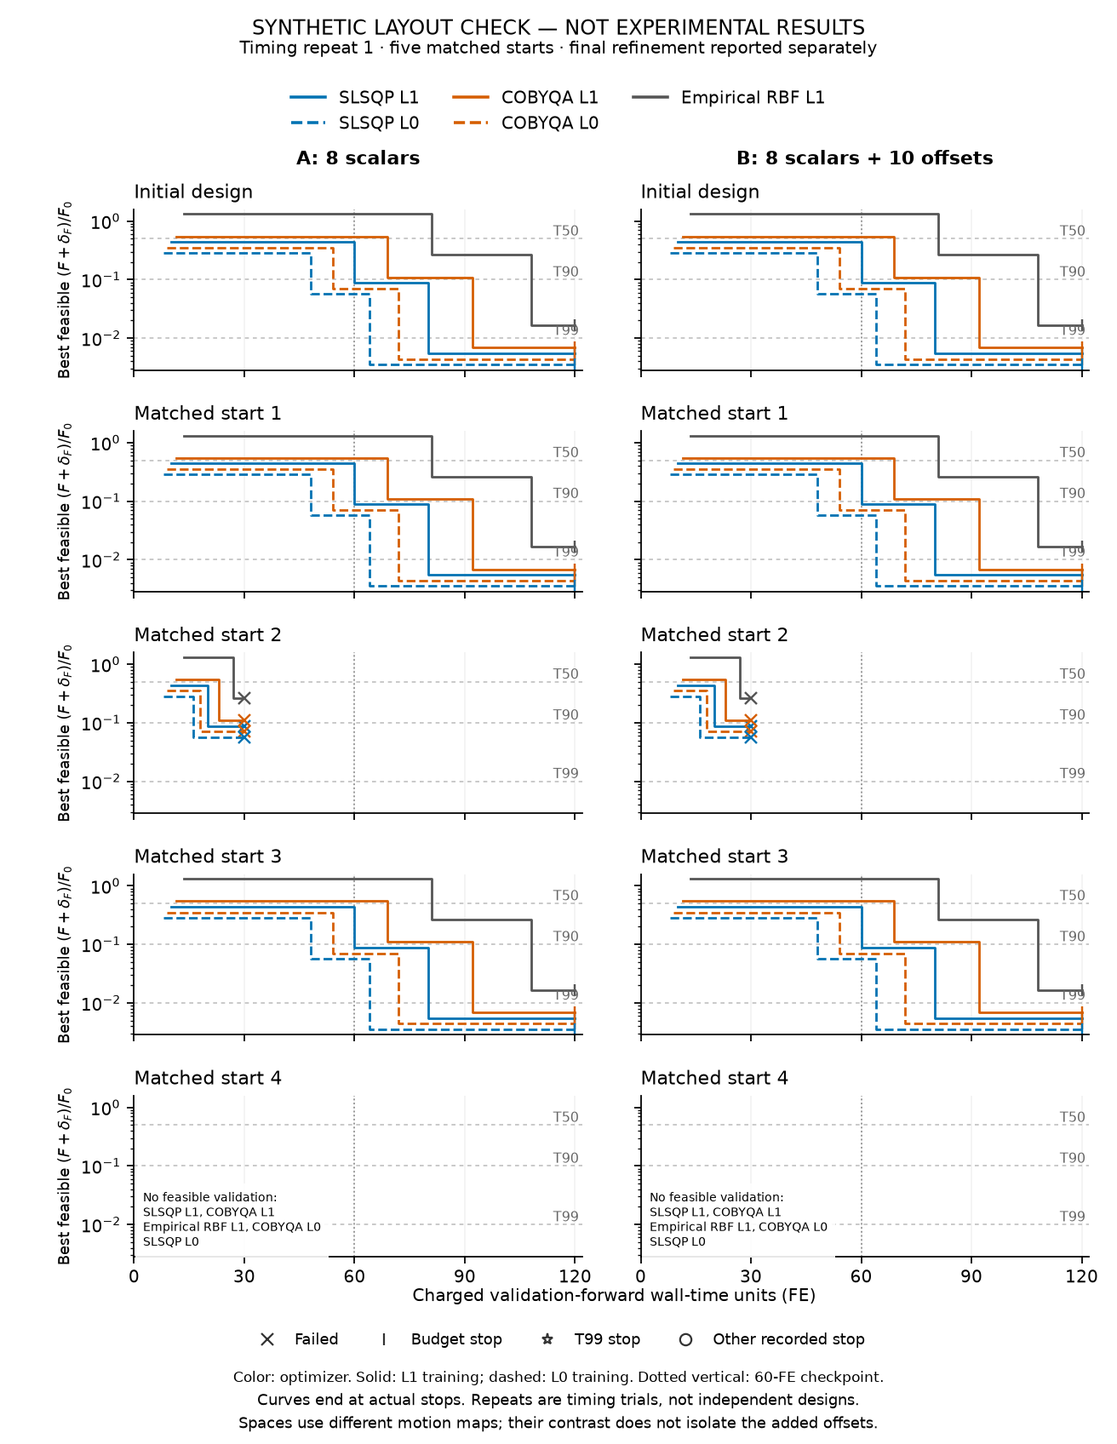
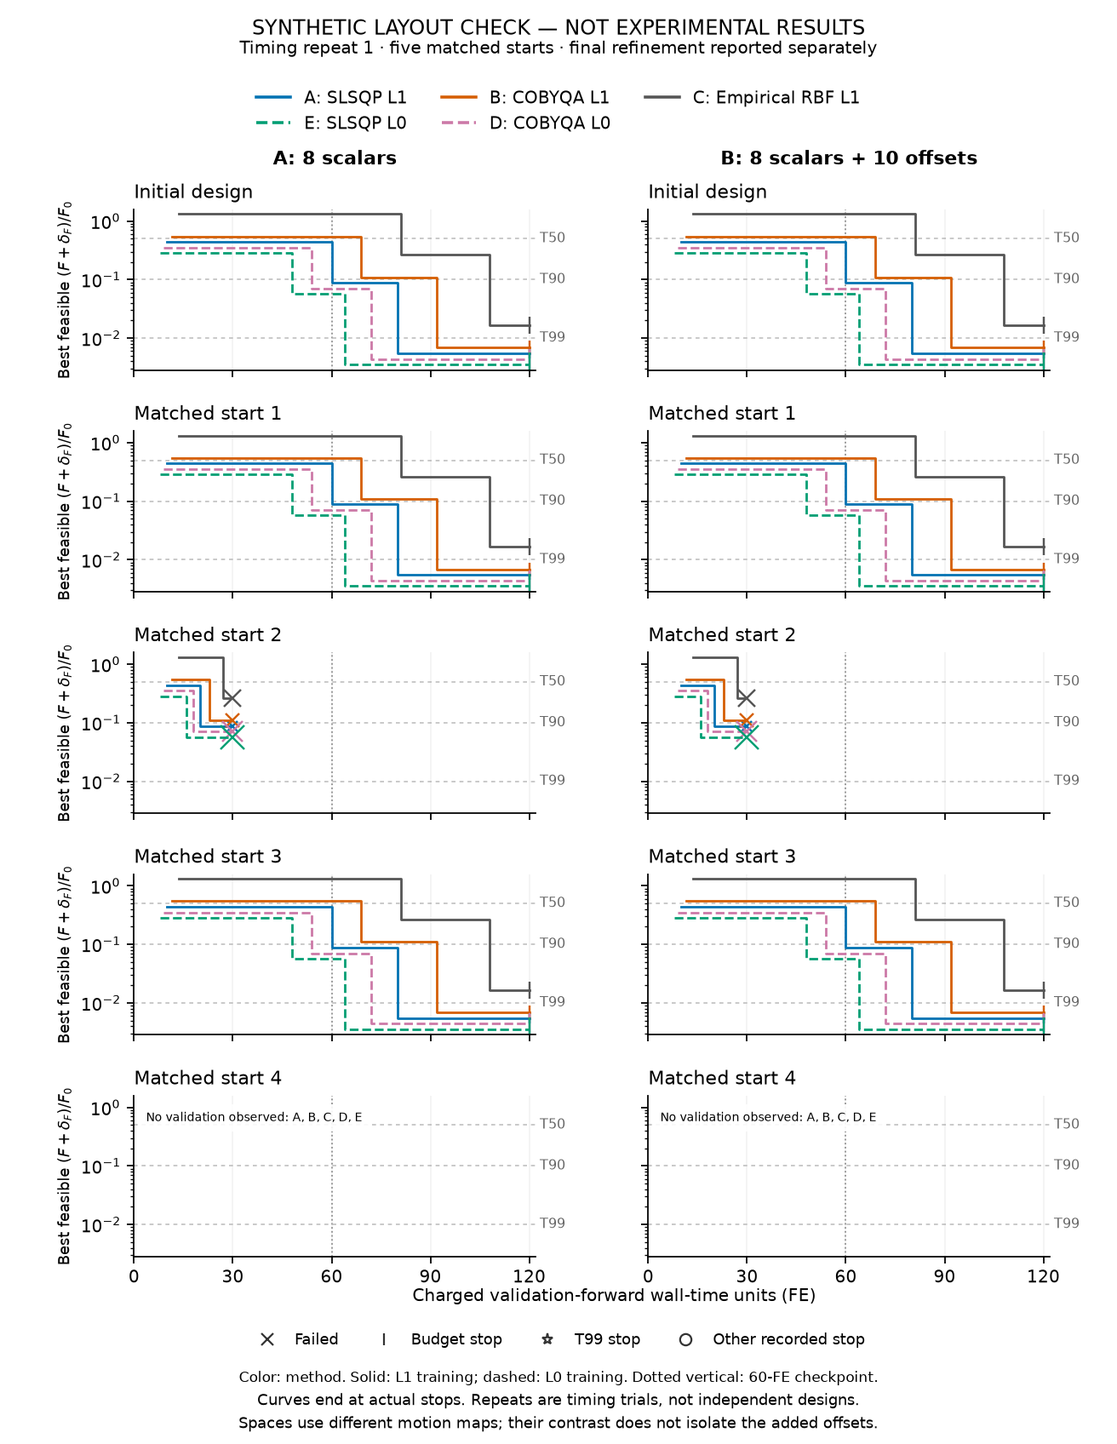
Fix main-study presentation review and guard rendered series

diff --git a/papers/motor-gradient-optimization/refs/main-study-figures/render.py b/papers/motor-gradient-optimization/refs/main-study-figures/render.py
@@ -12,7 +12,7 @@ from matplotlib.lines import Line2D
 
 from prepare import METHODS, TARGETS, load
 
-COLORS = {'A': '#0072B2', 'E': '#0072B2', 'B': '#D55E00', 'D': '#D55E00', 'C': '#555555'}
+COLORS = {'A': '#0072B2', 'E': '#009E73', 'B': '#D55E00', 'D': '#CC79A7', 'C': '#555555'}
 STYLES = {'A': '-', 'B': '-', 'C': '-', 'D': '--', 'E': '--'}
 
 
@@ -26,7 +26,22 @@ def endpoint(stop):
     return 'o'
 
 
+def panel_rows(data, start, space, repeat):
+    rows = [r for r in data['runs'] if (r['start_index'], r['space'], r['repeat']) == (start, space, repeat)]
+    if len(rows) != 5 or {r['method'] for r in rows} != set(METHODS):
+        raise ValueError('panel must contain all five methods from exactly one repeat')
+    return sorted(rows, key=lambda r: r['method'])
+
+
+def missing_label(row):
+    return {'unavailable': 'Validation unavailable',
+            'unavailable_and_rejected': 'Unavailable / rejected',
+            'rejected': 'No feasible validation',
+            'not_observed': 'No validation observed'}[row['validation_state']]
+
+
 def render(data, out, *, synthetic=False):
+    synthetic = synthetic or data.get('synthetic') is True
     out.mkdir(parents=True, exist_ok=False)
     plt.rcParams.update({'font.size': 9, 'axes.titlesize': 10,
                          'axes.spines.top': False, 'axes.spines.right': False,
@@ -36,13 +51,13 @@ def render(data, out, *, synthetic=False):
     upper = max(1.2, max(ratios) * 1.2) if ratios else 1.2
     for repeat in (1, 2):
         fig, axes = plt.subplots(5, 2, figsize=(8.2, 10.6), sharex=True, sharey=True)
-        fig.subplots_adjust(left=.12, right=.975, bottom=.13, top=.855, hspace=.38, wspace=.13)
+        fig.subplots_adjust(left=.12, right=.94, bottom=.13, top=.855, hspace=.38, wspace=.28)
         title = 'SYNTHETIC LAYOUT CHECK — NOT EXPERIMENTAL RESULTS' if synthetic else 'Common-validated ripple by starting design'
         fig.suptitle(title, y=.987, fontsize=11 if synthetic else 13)
         fig.text(.5, .963, f'Timing repeat {repeat} · five matched starts · final refinement reported separately',
                  ha='center', fontsize=9)
         handles = [Line2D([], [], color=COLORS[m], linestyle=STYLES[m],
-                          label=METHODS[m][1], lw=1.6) for m in ('A', 'E', 'B', 'D', 'C')]
+                          label=m + ': ' + METHODS[m][1], lw=1.6) for m in ('A', 'E', 'B', 'D', 'C')]
         fig.legend(handles=handles, loc='upper center', bbox_to_anchor=(.5, .948),
                    ncol=3, frameon=False, fontsize=9)
         for start in range(5):
@@ -53,16 +68,18 @@ def render(data, out, *, synthetic=False):
                 ax.axvline(60, color='#888888', lw=.8, linestyle=':', zorder=0)
                 for name, fraction in TARGETS.items():
                     ax.axhline(fraction, color='#BBBBBB', lw=.7, linestyle=(0, (3, 3)), zorder=0)
-                    ax.text(121, fraction, name, ha='right', va='bottom', fontsize=7, color='#666666')
-                rows = [r for r in data['runs'] if (r['start_index'], r['space'], r['repeat']) == (start, space, repeat)]
+                    ax.text(1.01, fraction, name, transform=ax.get_yaxis_transform(),
+                            ha='left', va='center', fontsize=7, color='#666666')
+                rows = panel_rows(data, start, space, repeat)
                 missing = []
                 for r in rows:
                     if not r['points']:
-                        missing.append(r['method']); continue
+                        missing.append(r); continue
                     x, y = zip(*r['points']); m = r['method']
-                    ax.step(x, y, where='post', color=COLORS[m], linestyle=STYLES[m], lw=1.25)
+                    ax.step(x, y, where='post', color=COLORS[m], linestyle=STYLES[m], lw=1.25, label=r['run_id'])
                     ax.plot(x[-1], y[-1], marker=endpoint(r['stop']), linestyle='none',
-                            color=COLORS[m], ms=6, markerfacecolor='none', markeredgewidth=1.1)
+                            color=COLORS[m], ms=5 + 2 * list(METHODS).index(m),
+                            markerfacecolor='none', markeredgewidth=1.1)
                 ax.set_title('Initial design' if start == 0 else f'Matched start {start}', loc='left')
                 if start == 0:
                     ax.text(.5, 1.28, 'A: 8 scalars' if space == 'a' else 'B: 8 scalars + 10 offsets',
@@ -71,16 +88,17 @@ def render(data, out, *, synthetic=False):
                     ax.set_ylabel(r'Best feasible $(F+\delta_F)/F_0$', fontsize=8)
                 if missing:
                     # Avoid five method names overflowing a narrow panel.
-                    text = 'No feasible validation:\n' + '\n'.join(
-                        ', '.join(METHODS[m][1] for m in missing[i:i+2]) for i in range(0, len(missing), 2))
-                    ax.text(.02, .04, text, transform=ax.transAxes, fontsize=6.5, va='bottom',
+                    labels = {}
+                    for r in missing: labels.setdefault(missing_label(r), []).append(r['method'])
+                    text = '\n'.join(label + ': ' + ', '.join(methods) for label, methods in labels.items())
+                    ax.text(.03, .9, text, transform=ax.transAxes, fontsize=6.5, va='top',
                             bbox={'facecolor': 'white', 'edgecolor': 'none', 'alpha': .9})
         stops = [('x', 'Failed'), ('|', 'Budget stop'), ('*', 'T99 stop'), ('o', 'Other recorded stop')]
         fig.legend(handles=[Line2D([], [], marker=m, color='#333333', linestyle='none',
                                    markerfacecolor='none', label=l) for m, l in stops],
                    loc='lower center', bbox_to_anchor=(.5, .057), ncol=4, frameon=False, fontsize=8)
         fig.text(.55, .099, 'Charged validation-forward wall-time units (FE)', ha='center', fontsize=9)
-        fig.text(.5, .043, 'Color: optimizer. Solid: L1 training; dashed: L0 training. Dotted vertical: 60-FE checkpoint.',
+        fig.text(.5, .043, 'Color: method. Solid: L1 training; dashed: L0 training. Dotted vertical: 60-FE checkpoint.',
                  ha='center', fontsize=7.5)
         fig.text(.5, .027, 'Curves end at actual stops. Repeats are timing trials, not independent designs.', ha='center', fontsize=8)
         fig.text(.5, .011, 'Spaces use different motion maps; their contrast does not isolate the added offsets.', ha='center', fontsize=8)

diff --git a/papers/motor-gradient-optimization/refs/main-study-figures/test_prepare.py b/papers/motor-gradient-optimization/refs/main-study-figures/test_prepare.py
@@ -25,7 +25,7 @@ def fixture():
                         'space': space, 'start_index': start, 'start': 'theta0' if start == 0 else f'lhs{start}',
                         'repeat': repeat}, 'selected_completion': True, 'terminal_bound': True,
                         'host_contaminated': False, 'trace_sha256': 'a' * 64, 'status': stop,
-                        'ledger': {'total_fe': end, 'total_seconds': end * 2., 'solve_fe': end}, 'validations': []}
+                        'ledger': {'total_fe': end, 'total_seconds': end * 2., 'solve_fe': end}, 'validations': [], 'validation_unavailable_events': []}
                     attempts.append(attempt)
                     if start == 4:
                         continue
@@ -35,17 +35,17 @@ def fixture():
                             fe *= .9
                         r = {'run_id': rid, 'source_sha256': 'a' * 64, 'method': method, 'space': space,
                              'start_index': start, 'repeat': repeat, 'ordinal': ordinal,
-                             'elapsed_seconds': fe * 2., 'budget_seconds': 240., 'f_val': f, 'mean_full': 1.1,
+                             'elapsed_seconds': fe * 2., 'budget_seconds': 240., 'f_val': f * 2., 'mean_full': 1.1,
                              'eligible_run': True, 'host_contaminated': False, 'completed': True,
                              'geometry_admissible': True, 'discrete_pass': True, 'mesh_pass': True}
-                        upper = f + max(.1 * f, 2.5e-7)
+                        upper = 2 * f + max(.2 * f, 2.5e-7)
                         records.append({'record': r, 'eligible': True, 'rejection_reasons': [], 'f_upper': upper,
-                                        'attains': {n: upper <= fraction for n, fraction in TARGETS.items()}})
+                                        'attains': {n: upper <= 2 * fraction for n, fraction in TARGETS.items()}})
                         attempt['validations'].append({'record_id': f'{rid}:{ordinal}'})
     return {'schema': 1, 'can_select': True, 'capture_manifest_sha256': 'b' * 64,
             'source_commit': 'c' * 40, 'attempts': attempts,
-            'selection': {'f0': 1., 'mean0': 1., 'mean_floor': 1.0025,
-                          'targets': dict(TARGETS), 'records': records}}
+            'selection': {'f0': 2., 'mean0': 1., 'mean_floor': 1.0025,
+                          'targets': {n: 2 * f for n, f in TARGETS.items()}, 'records': records}}
 
 
 def preview_fixture():
@@ -58,7 +58,7 @@ def preview_fixture():
         r['f_val'] *= quality; r['elapsed_seconds'] *= time
         upper = r['f_val'] + max(.1 * r['f_val'], 2.5e-7)
         audit['f_upper'] = upper
-        audit['attains'] = {n: upper <= fraction for n, fraction in TARGETS.items()}
+        audit['attains'] = {n: upper <= 2 * fraction for n, fraction in TARGETS.items()}
     return data
 
 
@@ -141,6 +141,51 @@ class PresentationTests(unittest.TestCase):
         first = [r for r in out['runs'] if (r['space'], r['start_index'], r['repeat']) == ('a', 0, 1)]
         self.assertEqual(len({json.dumps(r['points']) for r in first}), 5)
         self.assertTrue(all(r['run_id'].startswith('synthetic/') for r in out['runs']))
+
+    def test_unavailable_events_and_mixed_rejections_are_retained(self):
+        data=fixture(); attempt=next(a for a in data['attempts'] if a['job']['start_index']==4)
+        event={'kind':'validation_unavailable','error':'synthetic solver failure'}
+        attempt['validation_unavailable_events']=[event]
+        out=prepare(data,2.); run=next(r for r in out['runs'] if r['run_id']==attempt['run_id'])
+        self.assertEqual(run['validation_state'],'unavailable')
+        self.assertEqual(run['validation_unavailable_events'],[event])
+        cells=[r for r in out['attainment'] if r['run_id']==attempt['run_id']]
+        self.assertEqual(len(cells),3)
+        self.assertTrue(all(r['validation_unavailable_count']==1 and r['validation_state']=='unavailable' for r in cells))
+        self.assertEqual(run['points'],[])
+
+    def test_truthy_nonboolean_eligibility_is_refused(self):
+        for value in (1,'true'):
+            data=fixture();data['selection']['records'][0]['eligible']=value
+            with self.subTest(value=value),self.assertRaisesRegex(ValueError,'eligibility must be boolean'):
+                prepare(data,2.)
+
+    def test_ledger_unit_gate_is_isolated_from_validation_budget(self):
+        data=fixture();data['attempts'][0]['ledger']['total_seconds']+=1.
+        with self.assertRaisesRegex(ValueError,'calibration/ledger mismatch'):prepare(data,2.)
+
+    def test_validation_after_stop_inside_budget_is_refused(self):
+        data=fixture()
+        row=next(r for r in data['selection']['records'] if r['record']['start_index']==2)
+        row['record']['elapsed_seconds']=61.
+        with self.assertRaisesRegex(ValueError,'validation after run stop'):prepare(data,2.)
+
+    def test_decreasing_validation_times_inside_budget_are_refused(self):
+        data=fixture();data['selection']['records'][1]['record']['elapsed_seconds']=19.
+        with self.assertRaisesRegex(ValueError,'chronology mismatch'):prepare(data,2.)
+
+    def test_early_stop_checkpoint_values_are_explicitly_carried_forward(self):
+        rows=prepare(fixture(),2.)['runs']
+        early=next(r for r in rows if r['start_index']==2)
+        self.assertEqual(early['checkpoint_reached'],{'60':False,'120':False})
+        self.assertEqual(early['checkpoint_upper_ratio'],{'60':.088,'120':.088})
+        self.assertEqual(rows[0]['checkpoint_reached'],{'60':True,'120':True})
+
+    def test_nonunit_anchor_controls_attainment(self):
+        data=fixture();row=data['selection']['records'][0]
+        self.assertEqual(data['selection']['f0'],2.)
+        self.assertTrue(.5 < row['f_upper'] < 1.)
+        self.assertTrue(prepare(data,2.)['runs'][0]['first_attainment']['T50'])
 
 
 if __name__ == '__main__':

diff --git a/papers/motor-gradient-optimization/refs/main-study-figures/prepare.py b/papers/motor-gradient-optimization/refs/main-study-figures/prepare.py
@@ -4,6 +4,7 @@ This is a downstream presentation adapter, not a replacement for the closed
 capture/scientific verification that produces its input. It reads no live traces.
 """
 import hashlib
+import copy
 import json
 import math
 
@@ -83,6 +84,7 @@ def prepare(data, unit_seconds):
         key = f'{rid}:{ordinal}'
         require(key not in records, 'duplicate validation')
         records[key] = audit; by_run[rid].append(audit)
+        require(type(audit['eligible']) is bool, 'validation eligibility must be boolean')
         attempt = attempts[rid]; job = attempt['job']
         require(record['source_sha256'] == attempt['trace_sha256'], 'trace identity mismatch')
         for rk, jk in [('method', 'method_letter'), ('space', 'space'),
@@ -122,7 +124,7 @@ def prepare(data, unit_seconds):
         points = []; best = None; first = {}; previous = -math.inf
         checkpoints = {'60': None, '120': None}
         for audit in rows:
-            if not audit['eligible']:
+            if audit['eligible'] is not True:
                 continue
             r = audit['record']; seconds = r['elapsed_seconds']; fe = seconds / unit_seconds
             require(seconds >= previous, 'validation chronology mismatch'); previous = seconds
@@ -130,7 +132,7 @@ def prepare(data, unit_seconds):
             if best is None or upper < best:
                 best = upper; points.append([fe, best / f0])
             for checkpoint in (60, 120):
-                if fe <= checkpoint:
+                if seconds <= checkpoint * unit_seconds:
                     checkpoints[str(checkpoint)] = best / f0
             for name in TARGETS:
                 if audit['attains'][name] and name not in first:
@@ -139,21 +141,36 @@ def prepare(data, unit_seconds):
         end = attempt['ledger']['total_fe']
         if points and points[-1][0] < end:
             points.append([end, points[-1][1]])
+        unavailable = copy.deepcopy(attempt['validation_unavailable_events'])
+        require(type(unavailable) is list and all(type(e) is dict and
+                e.get('kind') == 'validation_unavailable' for e in unavailable),
+                'invalid unavailable-validation events')
+        validation_state = ('feasible' if points else
+                            'unavailable_and_rejected' if unavailable and rows else
+                            'unavailable' if unavailable else
+                            'rejected' if rows else 'not_observed')
         run = {'run_id': attempt['run_id'], 'method': method, 'space': space, 'start_index': start,
                'repeat': repeat, 'stop': attempt['status'], 'stop_fe': end,
                'stop_seconds': attempt['ledger']['total_seconds'], 'points': points,
                'checkpoint_upper_ratio': checkpoints, 'first_attainment': first,
+               'checkpoint_reached': {str(c): attempt['ledger']['total_seconds'] >= c * unit_seconds for c in (60, 120)},
+               'validation_state': validation_state, 'validation_unavailable_events': unavailable,
+               'validation_unavailable_count': len(unavailable),
                'trace_sha256': attempt['trace_sha256']}
         runs.append(run)
         for name in TARGETS:
             hit = first.get(name)
             table.append({k: run[k] for k in ('run_id', 'method', 'space', 'start_index', 'repeat',
-                                              'stop', 'stop_fe', 'stop_seconds', 'trace_sha256')} |
+                                              'stop', 'stop_fe', 'stop_seconds', 'trace_sha256',
+                                              'validation_state', 'validation_unavailable_count')} |
                          {'target': name, 'status': 'attained' if hit else 'not_attained',
                           'attainment_fe': hit['fe'] if hit else None,
                           'attainment_seconds': hit['seconds'] if hit else None,
                           'record_id': hit['record_id'] if hit else None})
-    return {'schema': 1, 'capture_manifest_sha256': data['capture_manifest_sha256'],
+    synthetic = (data.get('synthetic') is True or
+                 any(str(a['run_id']).startswith('synthetic/') for a in attempts.values()) or
+                 any(len(set(data[k])) == 1 for k in ('capture_manifest_sha256', 'source_commit')))
+    return {'schema': 1, 'synthetic': synthetic, 'capture_manifest_sha256': data['capture_manifest_sha256'],
             'source_commit': data['source_commit'], 'unit_seconds': unit_seconds,
             'runs': runs, 'attainment': table, 'excluded_attempts': excluded,
             'validation_decisions': selection['records'],

diff --git a/papers/motor-gradient-optimization/refs/main-study-figures/test_render.py b/papers/motor-gradient-optimization/refs/main-study-figures/test_render.py
@@ -1,0 +1,61 @@
+"""Inspect the actual plotted series using synthetic data only."""
+import csv
+import json
+from pathlib import Path
+import tempfile
+import unittest
+from unittest import mock
+
+import render
+from test_prepare import fixture, preview_fixture
+from prepare import prepare, METHODS
+
+
+class RenderTests(unittest.TestCase):
+    def test_both_rendered_repeats_keep_every_method_and_automatic_watermark(self):
+        source=preview_fixture()
+        unavailable=next(a for a in source['attempts'] if a['job']['start_index']==4)
+        unavailable['validation_unavailable_events']=[{'kind':'validation_unavailable','error':'synthetic failure'}]
+        data=prepare(source,2.)
+        figures=[]
+        original=render.plt.subplots
+        def capture(*args,**kwargs):
+            fig,axes=original(*args,**kwargs);figures.append((fig,axes));return fig,axes
+        with tempfile.TemporaryDirectory() as tmp:
+            out=Path(tmp)/'render'
+            with mock.patch.object(render.plt,'subplots',side_effect=capture):
+                render.render(data,out)  # No --synthetic: watermark must survive.
+            self.assertEqual(len(figures),2)
+            for repeat,(fig,axes) in enumerate(figures,1):
+                self.assertIn('SYNTHETIC',fig._suptitle.get_text())
+                for start in range(5):
+                    for col,space in enumerate(('a','b')):
+                        expected={r['run_id']:r for r in data['runs'] if
+                            (r['start_index'],r['space'],r['repeat'])==(start,space,repeat) and r['points']}
+                        lines={l.get_label():l for l in axes[start,col].lines if l.get_label() in expected}
+                        self.assertEqual(set(lines),set(expected))
+                        if start!=4:self.assertEqual({r['method'] for r in expected.values()},set(METHODS))
+                        for rid,line in lines.items():
+                            self.assertEqual(list(zip(line.get_xdata(),line.get_ydata())),[tuple(p) for p in expected[rid]['points']])
+                if repeat==1:
+                    self.assertIn('Validation unavailable: A','\n'.join(t.get_text() for t in axes[4,0].texts))
+            saved=json.loads((out/'plot-data.json').read_text())
+            self.assertTrue(saved['synthetic']);self.assertEqual(saved['runs'],data['runs'])
+            with (out/'target-attainment.csv').open() as stream:cells=list(csv.DictReader(stream))
+            self.assertEqual(len(cells),300)
+            unavailable_cells=[r for r in cells if r['run_id']==unavailable['run_id']]
+            self.assertEqual(len(unavailable_cells),3)
+            self.assertTrue(all(r['validation_unavailable_count']=='1' and r['validation_state']=='unavailable' for r in unavailable_cells))
+
+    def test_absent_validation_labels_distinguish_unavailable_rejected_and_unobserved(self):
+        for state,label in [('unavailable','Validation unavailable'),('rejected','No feasible validation'),
+                            ('unavailable_and_rejected','Unavailable / rejected'),('not_observed','No validation observed')]:
+            self.assertEqual(render.missing_label({'validation_state':state}),label)
+
+    def test_panel_refuses_pooled_repeats_and_missing_method(self):
+        data=prepare(fixture(),2.)
+        data['runs']=[r for r in data['runs'] if r['method']!='C']
+        with self.assertRaisesRegex(ValueError,'all five methods'):render.panel_rows(data,0,'a',1)
+
+
+if __name__=='__main__':unittest.main()

diff --git a/papers/motor-gradient-optimization/refs/main-study-figures/README.md b/papers/motor-gradient-optimization/refs/main-study-figures/README.md
@@ -30,7 +30,7 @@ uv run --with numpy==2.5.4 --with matplotlib==3.11.2 python \
 The output directory must not exist. Outputs are:
 
 - `quality-by-start-repeat1.pdf` and `.png`: five starts × two spaces, with
-  all five methods. Color identifies the optimizer and line style identifies
+  all five methods. Color identifies the method and line style identifies
   training resolution. The 60-FE checkpoint is marked on the 120-FE axis.
 - `quality-by-start-repeat2.pdf` and `.png`: the second timing repeat in the
   same layout and axis limits, suitable for a supplement. Repeats are not
@@ -40,7 +40,7 @@ The output directory must not exist. Outputs are:
   and charged duration remain explicit. A failed or early-stopped run is
   not assigned 120 FE of observed search or a fabricated speedup ratio.
 - `plot-data.json`: input/output/source hashes, plotting version, exact
-  series, 60/120-FE checkpoint values, validation decisions and excluded
+  series, 60/120-FE checkpoint values and `checkpoint_reached` flags, validation decisions and excluded
   attempts. Excluded attempts remain separate from selected-run curves.
 
 Curves use the best feasible `(F + delta_F) / F0`, only after completed,
@@ -49,6 +49,12 @@ eligible crossings survive later scientific failure; no feasible observation
 is a missing curve, never zero. All target-table entries and plotted points
 come from the same prepared records. Ledger/unit, cohort, validation census,
 trace identity, feasibility flags and target arithmetic are checked again.
+Unavailable-validation events and counts remain in each run; the CSV includes
+the count and validation state. Missing curves distinguish unavailable,
+rejected and unobserved validations. An early stop carries its last value
+forward to later checkpoint summaries with `checkpoint_reached=false`; the
+curve itself still ends at the actual stop.
+
 The upstream verifier remains responsible for raw source/runtime/mesh and
 waveform authentication. A consistent forged summary is outside this
 presentation adapter's verification scope.
@@ -63,7 +69,7 @@ their contrast does not isolate the ten added offsets.
 ## Checks and synthetic layout preview
 
 ```sh
-python3 -I -m unittest discover \
+uv run --with numpy==2.5.4 --with matplotlib==3.11.2 python -I -m unittest discover \
   -s papers/motor-gradient-optimization/refs/main-study-figures -p 'test_*.py'
 ```
 
@@ -75,7 +81,8 @@ They launch no FEM or optimizer processes.
 To inspect the layout, serialize `test_prepare.preview_fixture()` to a new
 scratch JSON file and render it with unit 2 and **`--synthetic`**. The fixture
 deliberately varies five artificial paths and includes failures and missing
-curves. Both pages must visibly say **SYNTHETIC LAYOUT CHECK — NOT EXPERIMENTAL
+curves. Synthetic run IDs or placeholder provenance hashes automatically enable the
+watermark even without `--synthetic`. Both pages must visibly say **SYNTHETIC LAYOUT CHECK — NOT EXPERIMENTAL
 RESULTS**. Keep these previews outside the manuscript and its evidence data.
 The plots still need visual review with the actual completed data, at the
 final manuscript's printed size; synthetic legibility is not that review.
